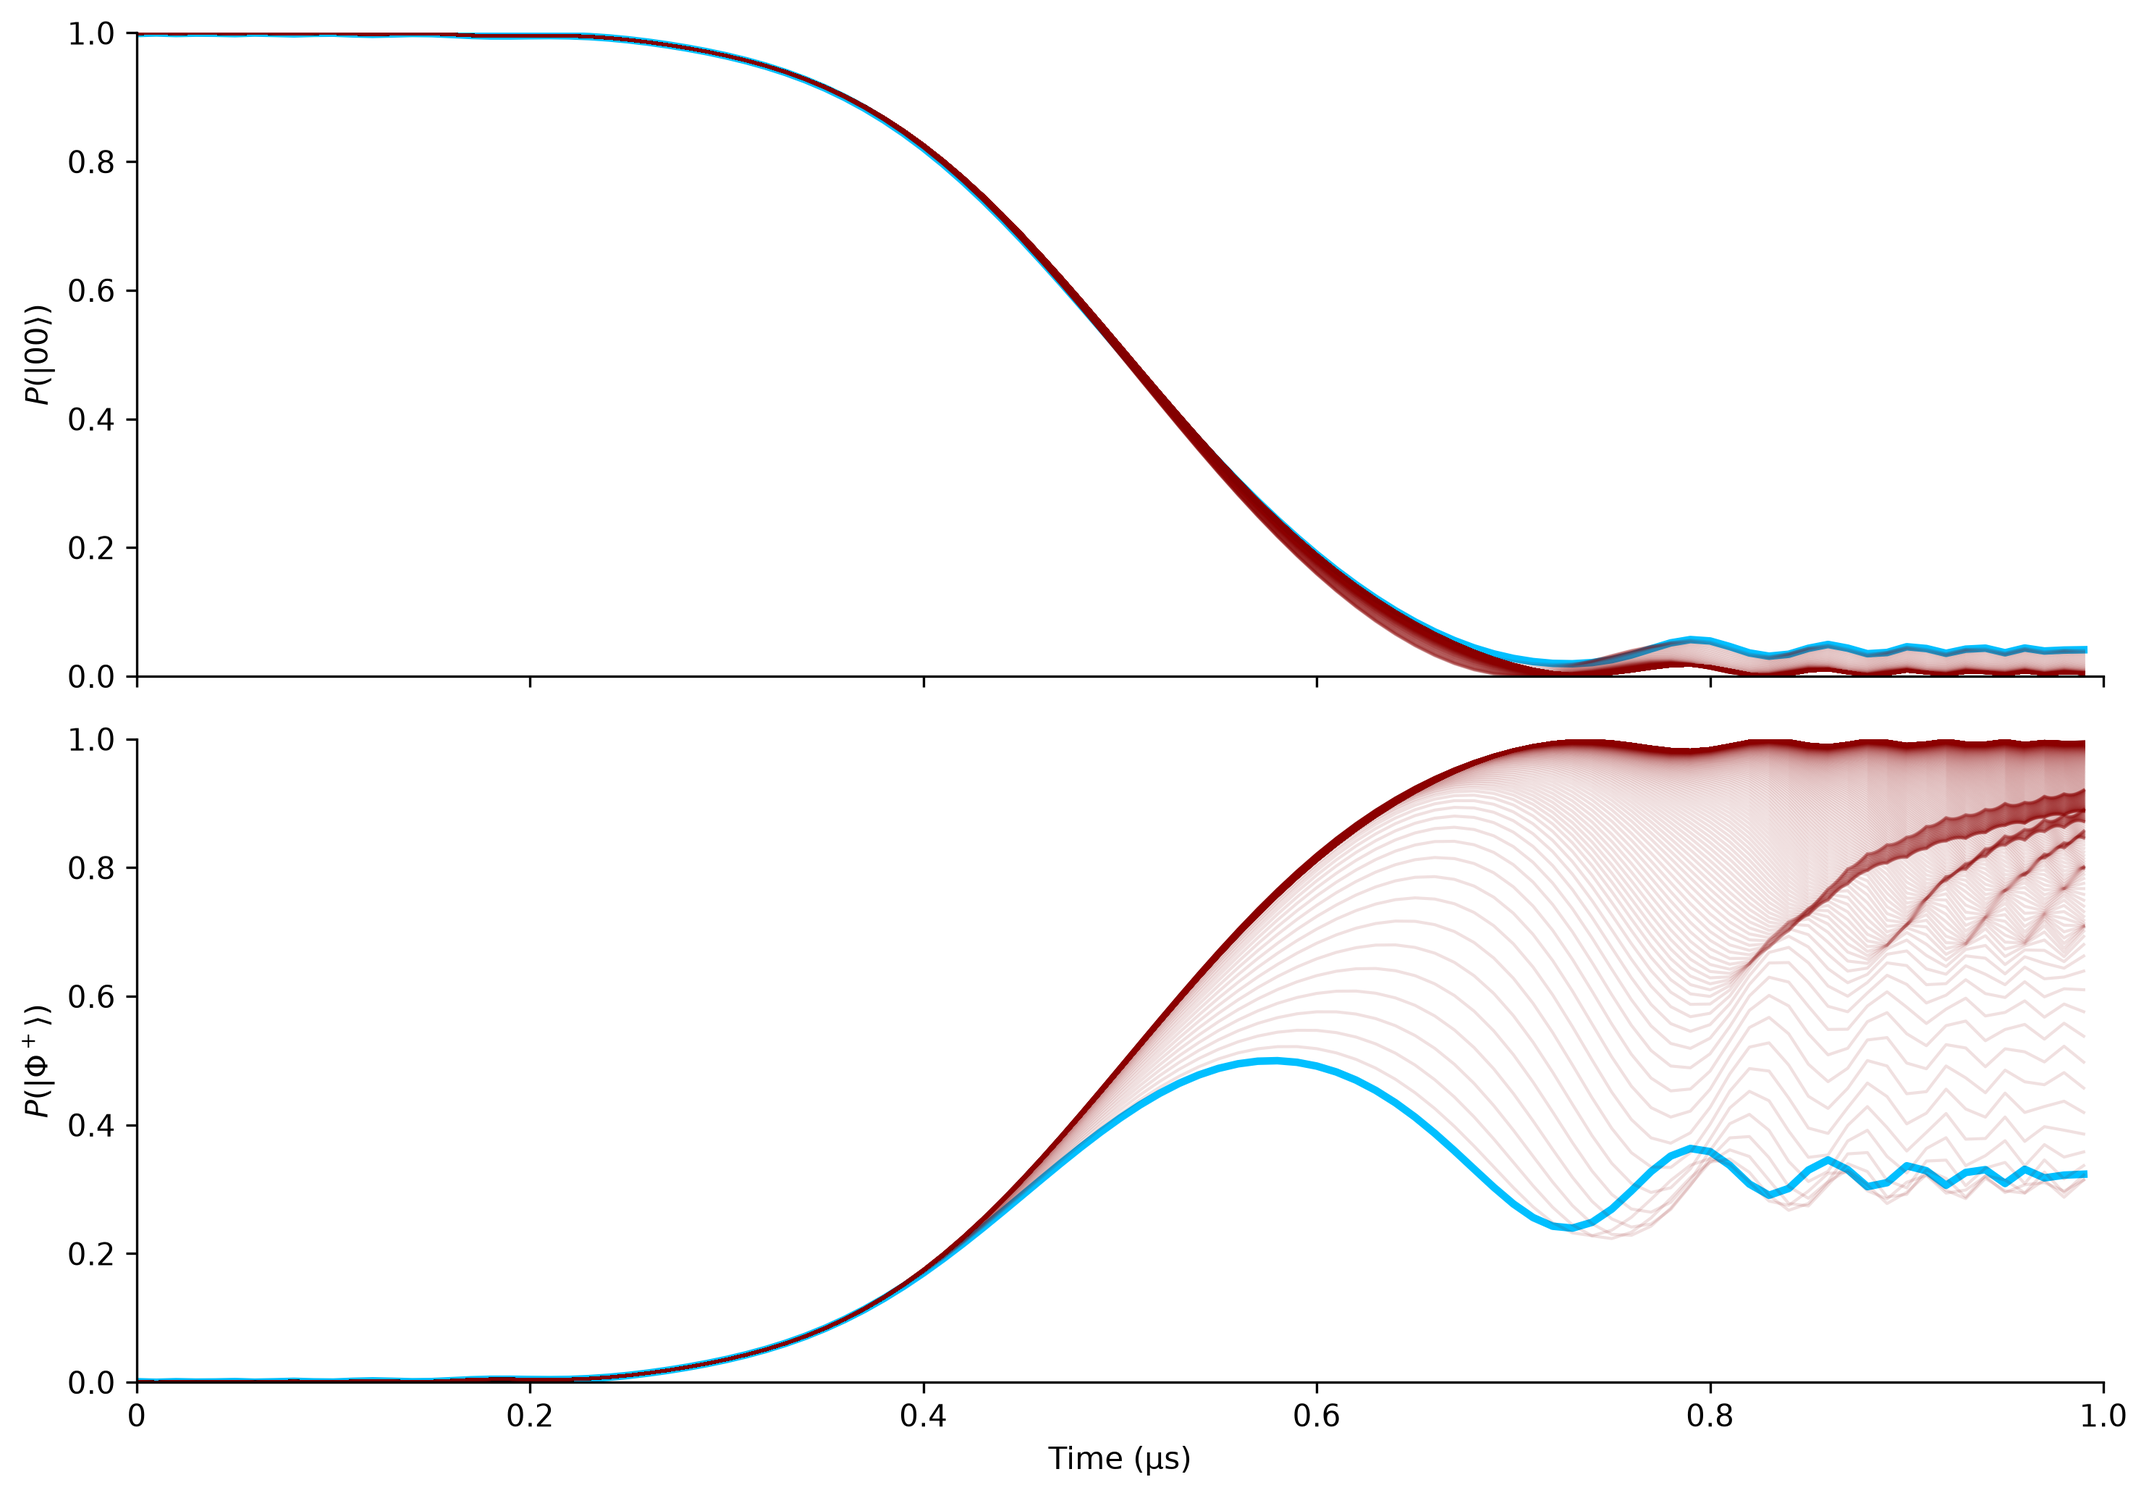
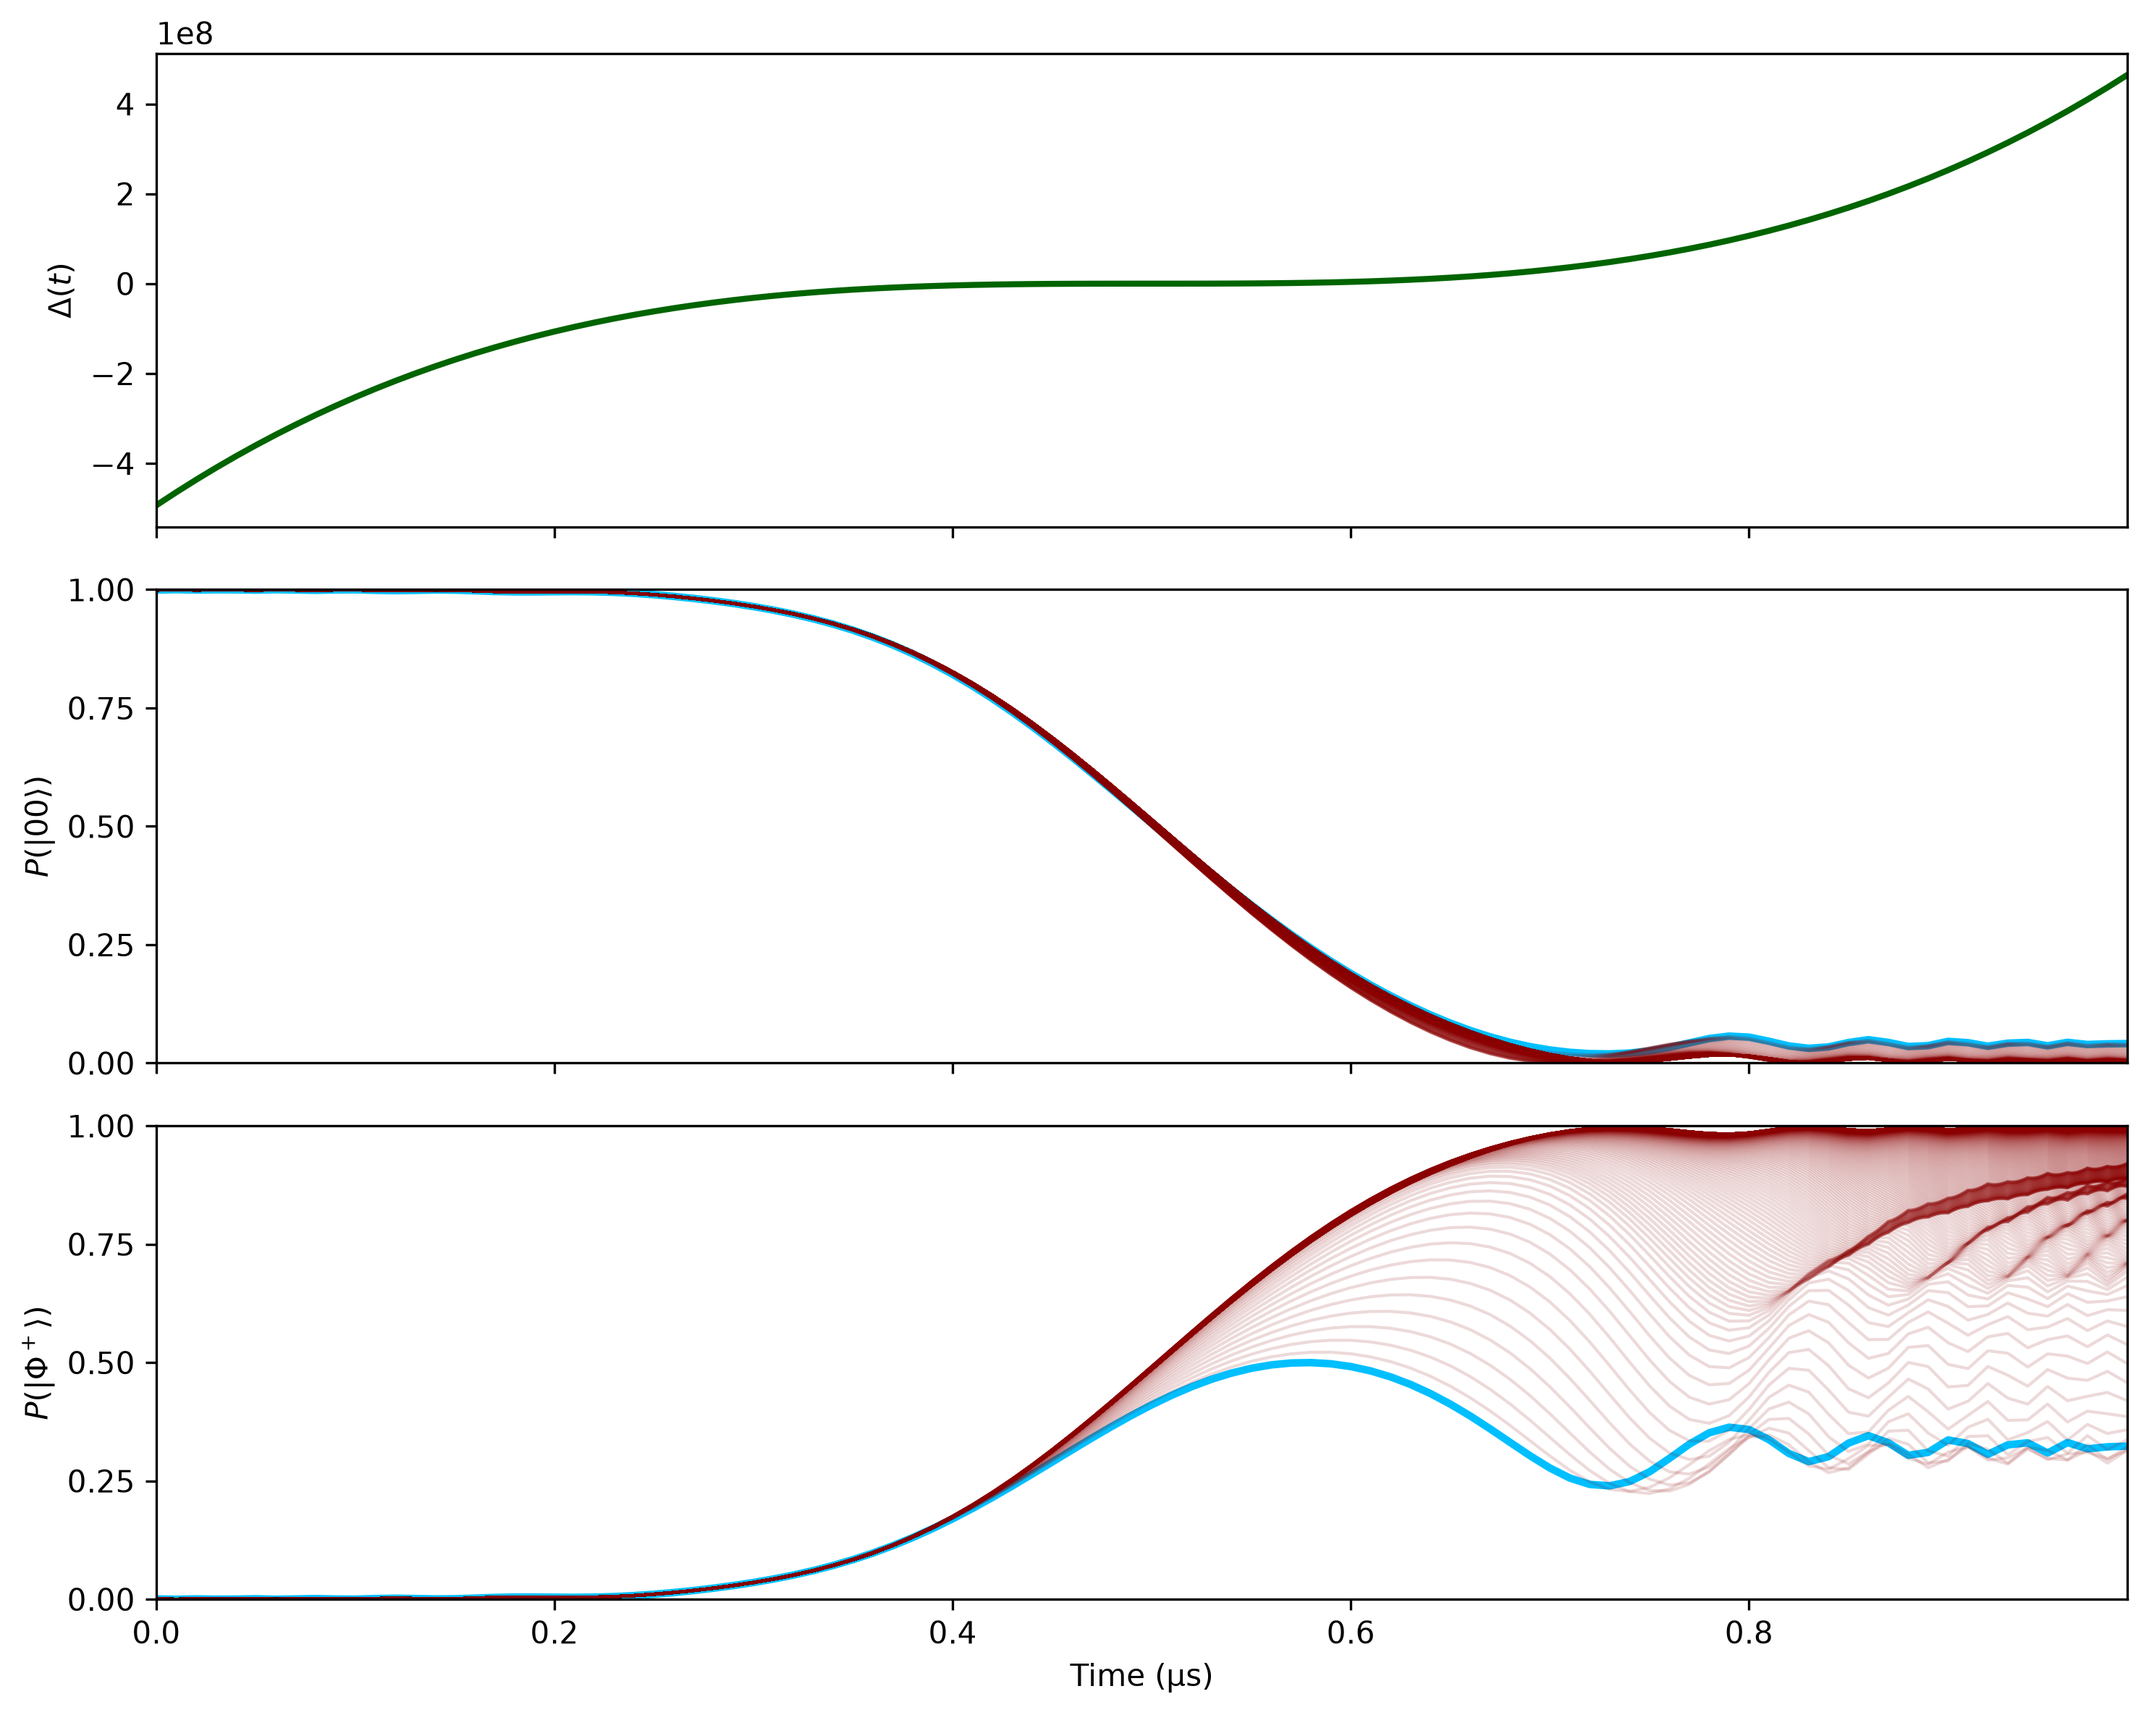
Added time dependant detuning graph

diff --git a/time_dependant.py b/time_dependant.py
@@ -37,6 +37,7 @@ def main():
 
     P_0 = {} #dict to store probabilities for each voltage
     P_b = {} #dict to store probabilities for each voltage for bell
+    d = [] #list to store detuning for each time step
 
     for v in voltages:
 
@@ -71,8 +72,11 @@ def main():
     #Now we have a dictionary with keys as voltages and values as lists of probabilities. 
     #We can now plot the probabilities for each voltage.
 
+    for t in time:
+        d.append(delta(t) / 2*np.pi) #append detuning to list
+
     print("Plotting...")
-    give_plot_t(P_0, P_b, "time_dependant.png")
+    give_plot_t(P_0, P_b,d, "time_dependant.png")
 
 
 def eigen_t(V,t):
@@ -93,50 +97,70 @@ def eigen_t(V,t):
 
     return R, R_dagger, E1, E2, E3, E4
 
+
+def give_plot_t(P_0, P_b, d, file_name):
+
+    # Convert time from seconds to microseconds
+    t_us = time * 1e6
+
+    # Create figure
+    fig, (ax1, ax2, ax3) = plt.subplots(
+        3, 1, figsize=(10, 8), sharex=True)
+
+    # Plot detuning
+    ax1.plot(t_us, d, color='darkgreen', linewidth=2)
+    ax1.set_ylabel(r'$\Delta(t)$')
     
-def give_plot_t(P_0, P_b, file_name):
-
-    fig, (ax1, ax2) = plt.subplots(2, 1, figsize=(10, 7), sharex=True)
-
     # Plot probability of |00>
-    for v in P_0.keys():
+    for v in P_0:
         if v == 0:
-            ax1.plot(time, P_0[v], color='deepskyblue',
-                     linewidth=2.5, label='V = 0')
+            ax2.plot(
+                t_us, P_0[v],
+                color='deepskyblue', linewidth=2.5,
+                label='V = 0'
+            )
         else:
-            ax1.plot(time, P_0[v], color='darkred',
-                     alpha=0.12, linewidth=1)
+            ax2.plot(
+                t_us, P_0[v],
+                color='darkred', alpha=0.15, linewidth=1
+            )
 
     # Plot probability of Bell state
-    for v in P_b.keys():
+    for v in P_b:
         if v == 0:
-            ax2.plot(time, P_b[v], color='deepskyblue',
-                     linewidth=2.5, label='V = 0')
+            ax3.plot(
+                t_us, P_b[v],
+                color='deepskyblue', linewidth=2.5,
+                label='V = 0'
+            )
         else:
-            ax2.plot(time, P_b[v], color='darkred',
-                     alpha=0.12, linewidth=1)
+            ax3.plot(
+                t_us, P_b[v],
+                color='darkred', alpha=0.15, linewidth=1
+            )
 
     # Labels and titles
-    ax1.set_ylabel(r'$P(|00\rangle)$')
-    ax2.set_ylabel(r'$P(|\Phi^+\rangle)$')
-    ax2.set_xlabel('Time (µs)')
+    ax2.set_ylabel(r'$P(|00\rangle)$')
 
-    # Axes
-    for ax in (ax1, ax2):
+    ax3.set_ylabel(r'$P(|\Phi^+\rangle)$')
+    ax3.set_xlabel('Time (µs)')
+
+    # Format probability axes
+    for ax in (ax2, ax3):
         ax.set_ylim(0, 1)
-        ax.set_xlim(0, 1e-6)
-        ax.spines['top'].set_visible(False)
-        ax.spines['right'].set_visible(False)
+        ax.set_yticks([0, 0.25, 0.5, 0.75, 1])
+    
+    # Format all axes
+    for ax in (ax1, ax2, ax3):
+        ax.set_xlim(t_us[0], t_us[-1])
+        ax.spines['top'].set_visible(True)
+        ax.spines['right'].set_visible(True)
 
-    # Convert time axis from seconds to microseconds
-    ax2.set_xlabel('Time (µs)')
-    ax2.set_xticks([0, 0.2e-6, 0.4e-6, 0.6e-6,
-                    0.8e-6, 1e-6])
-    ax2.set_xticklabels(['0', '0.2', '0.4', '0.6', '0.8', '1.0'])
-
+    # Final layout and save
     fig.tight_layout()
-    plt.savefig(file_name, dpi=300, bbox_inches='tight')
+    fig.savefig(file_name, dpi=300, bbox_inches='tight')
     plt.show()
+
 
 
 if __name__ == "__main__":
